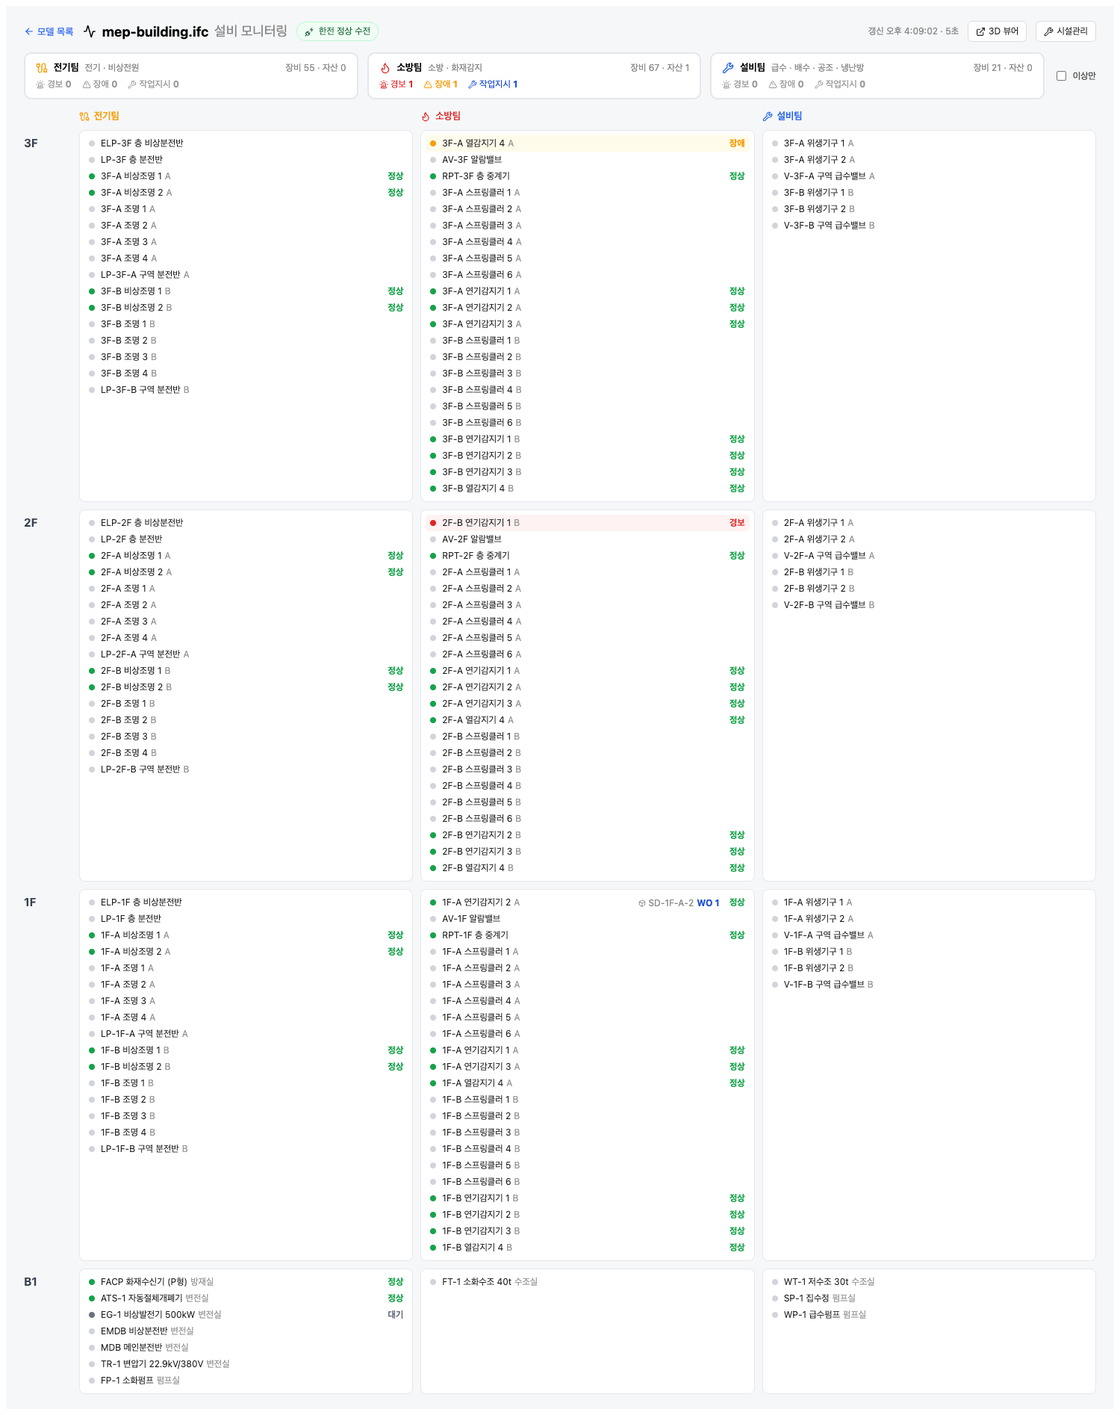
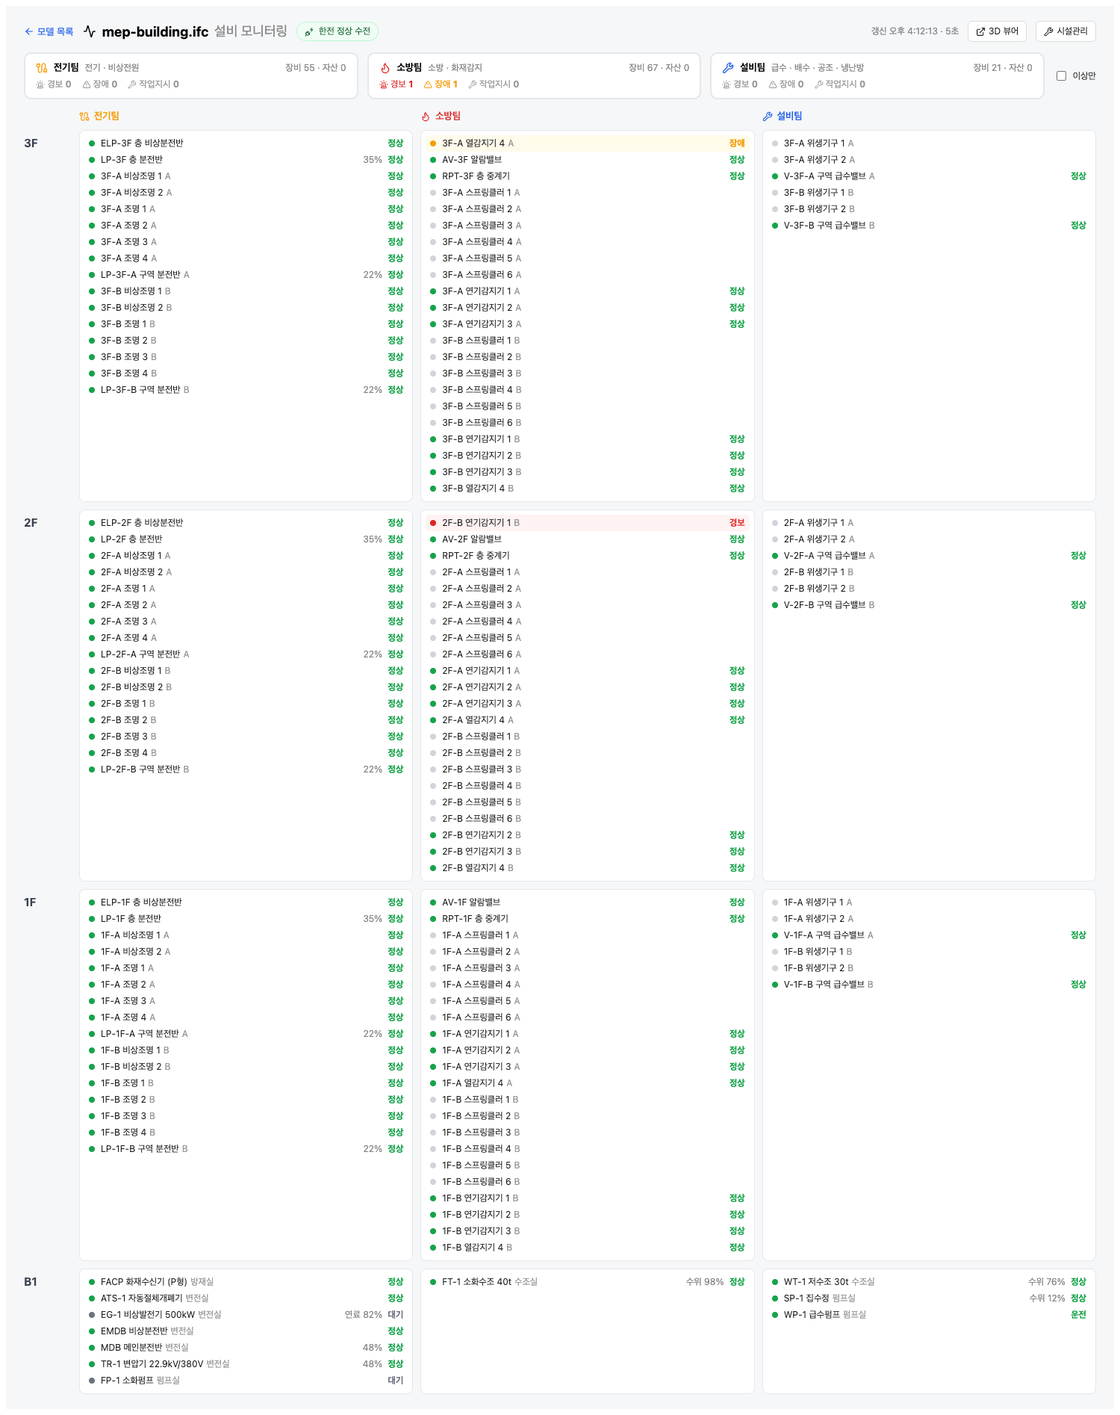
M6 모니터링 보강: 분전반·펌프·밸브·수조·변압기·조명 상태 초기값(95개), GET /power(변경 없이 전원 집합), 모니터에 무전원 회색·팀별 무전원 수·부하/수위/개폐 보조값

diff --git a/web/src/MonitorPage.tsx b/web/src/MonitorPage.tsx
@@ -12,21 +12,24 @@ const TEAMS: { key: string; name: string; icon: LucideIcon; color: string; syste
   { key: 'mech', name: '설비팀', icon: Wrench, color: '#2563eb', systems: ['급수', '배수', '공조', '냉난방'] },
 ]
 const STATUS: Record<string, { label: string; color: string }> = { NORMAL: { label: '정상', color: '#16a34a' }, RUNNING: { label: '운전', color: '#16a34a' }, STANDBY: { label: '대기', color: '#6b7280' }, TRANSFERRED: { label: '절체', color: '#ea580c' }, ALARM: { label: '경보', color: '#dc2626' }, FAULT: { label: '장애', color: '#f59e0b' } }
-const rank = (r: Row) => ({ ALARM: 0, FAULT: 1, TRANSFERRED: 2 }[r.status?.Status ?? ''] ?? (r.openWorkOrders ? 3 : r.lastResult === 'DEFECT' ? 4 : 9))
+const rank = (r: Row, dead = false) => ({ ALARM: 0, FAULT: 1, TRANSFERRED: 2 }[r.status?.Status ?? ''] ?? (dead ? 2 : r.openWorkOrders ? 3 : r.lastResult === 'DEFECT' ? 4 : 9))
 
 /** #/models/{id}/monitor — 팀 × 층 격자 상태판. 5초 자동 갱신 */
 export default function MonitorPage({ modelId }: { modelId: string }) {
   const [model, setModel] = useState<Model>()
   const [rows, setRows] = useState<Row[]>([]); const [power, setPower] = useState('UNKNOWN')
   const [team, setTeam] = useState<string>(); const [onlyAbnormal, setOnlyAbnormal] = useState(false); const [tick, setTick] = useState(new Date())
-  const load = () => api(`/models/${modelId}/monitor`).then(d => { setRows(d.rows); setPower(d.power); setTick(new Date()) })
+  const [unpowered, setUnpowered] = useState<Set<string>>(new Set())
+  const load = () => Promise.all([api(`/models/${modelId}/monitor`), api(`/models/${modelId}/power`).catch(() => ({ unpowered: [] }))])
+    .then(([d, pw]) => { setRows(d.rows); setPower(d.power); setUnpowered(new Set(pw.unpowered)); setTick(new Date()) })
   useEffect(() => { api(`/models/${modelId}`).then(setModel); load(); const t = setInterval(load, 5000); return () => clearInterval(t) }, [modelId])
 
   const teamOf = (r: Row) => TEAMS.find(t => r.systems.some(s => t.systems.includes(s)))
   const storeys = useMemo(() => [...new Map(rows.filter(r => r.storey).map(r => [r.storey!, r.elevation ?? 0])).entries()].sort((a, b) => b[1] - a[1]).map(e => e[0]), [rows])
   const visibleTeams = TEAMS.filter(t => !team || t.key === team)
-  const cell = (st: string, t: typeof TEAMS[number]) => rows.filter(r => r.storey === st && teamOf(r)?.key === t.key && (!onlyAbnormal || rank(r) < 9)).sort((a, b) => rank(a) - rank(b) || (a.zone ?? '').localeCompare(b.zone ?? '') || a.name.localeCompare(b.name))
-  const kpi = (t: typeof TEAMS[number]) => { const rs = rows.filter(r => teamOf(r)?.key === t.key); return { total: rs.length, alarm: rs.filter(r => r.status?.Status === 'ALARM').length, fault: rs.filter(r => r.status?.Status === 'FAULT').length, wo: rs.reduce((n, r) => n + (r.openWorkOrders ?? 0), 0), assets: rs.filter(r => r.assetId).length } }
+  const dead = (r: Row) => unpowered.has(r.globalId)
+  const cell = (st: string, t: typeof TEAMS[number]) => rows.filter(r => r.storey === st && teamOf(r)?.key === t.key && (!onlyAbnormal || rank(r, dead(r)) < 9)).sort((a, b) => rank(a, dead(a)) - rank(b, dead(b)) || (a.zone ?? '').localeCompare(b.zone ?? '') || a.name.localeCompare(b.name))
+  const kpi = (t: typeof TEAMS[number]) => { const rs = rows.filter(r => teamOf(r)?.key === t.key); return { total: rs.length, alarm: rs.filter(r => r.status?.Status === 'ALARM').length, fault: rs.filter(r => r.status?.Status === 'FAULT').length, wo: rs.reduce((n, r) => n + (r.openWorkOrders ?? 0), 0), assets: rs.filter(r => r.assetId).length, dead: rs.filter(r => unpowered.has(r.globalId)).length } }
 
   return (
     <main style={{ fontFamily: 'system-ui', fontSize: 13, padding: '20px 24px', minHeight: '100vh', background: '#f6f7f9' }}>
@@ -43,7 +46,7 @@ export default function MonitorPage({ modelId }: { modelId: string }) {
         {TEAMS.map(t => { const k = kpi(t), Icon = t.icon, active = team === t.key; return (
           <div key={t.key} onClick={() => setTeam(active ? undefined : t.key)} style={{ flex: 1, background: '#fff', border: '2px solid ' + (active ? t.color : '#e5e7eb'), borderRadius: 10, padding: '10px 14px', cursor: 'pointer' }}>
             <div style={{ display: 'flex', alignItems: 'center', gap: 8 }}><Icon size={16} style={{ color: t.color }} /><b>{t.name}</b><span style={{ color: '#888', fontSize: 12 }}>{t.systems.join(' · ')}</span>
-              <span style={{ marginLeft: 'auto', color: '#888', fontSize: 12 }}>장비 {k.total} · 자산 {k.assets}</span></div>
+              <span style={{ marginLeft: 'auto', color: '#888', fontSize: 12 }}>장비 {k.total} · 자산 {k.assets}{k.dead ? <b style={{ color: '#374151', marginLeft: 6 }}>무전원 {k.dead}</b> : ''}</span></div>
             <div style={{ display: 'flex', gap: 14, marginTop: 6, fontSize: 12 }}>
               <span style={{ color: k.alarm ? '#dc2626' : '#999' }}><Siren size={12} style={{ verticalAlign: -2 }} /> 경보 <b>{k.alarm}</b></span>
               <span style={{ color: k.fault ? '#f59e0b' : '#999' }}><AlertTriangle size={12} style={{ verticalAlign: -2 }} /> 장애 <b>{k.fault}</b></span>
@@ -59,7 +62,7 @@ export default function MonitorPage({ modelId }: { modelId: string }) {
           <div key={st} style={{ fontWeight: 700, fontSize: 15, paddingTop: 8, color: '#374151' }}>{st}</div>
           {visibleTeams.map(t => { const rs = cell(st, t); return (
             <div key={st + t.key} style={{ background: '#fff', border: '1px solid #e5e7eb', borderRadius: 8, padding: 6, minHeight: 44 }}>
-              {rs.map(r => <RowView key={r.globalId} r={r} modelId={modelId} />)}
+              {rs.map(r => <RowView key={r.globalId} r={r} modelId={modelId} dead={dead(r)} />)}
               {!rs.length && <div style={{ color: '#bbb', fontSize: 12, padding: 4 }}>{onlyAbnormal ? '이상 없음' : '—'}</div>}
             </div>) })}
         </>)}
@@ -68,17 +71,19 @@ export default function MonitorPage({ modelId }: { modelId: string }) {
   )
 }
 
-function RowView({ r, modelId }: { r: Row; modelId: string }) {
-  const s = r.status?.Status, st = s ? STATUS[s] : undefined
+function RowView({ r, modelId, dead }: { r: Row; modelId: string; dead?: boolean }) {
+  const s = r.status?.Status, st = dead ? { label: '무전원', color: '#374151' } : s ? STATUS[s] : undefined
   const abnormal = s === 'ALARM' || s === 'FAULT'
   return (
     <a href={`#/models/${modelId}?sel=${encodeURIComponent(r.globalId)}&fm=1`} title={`${r.ifcClass} · ${r.zone ?? r.storey}`}
-       style={{ display: 'grid', gridTemplateColumns: '10px 1fr auto auto', alignItems: 'center', gap: 6, padding: '3px 6px', borderRadius: 5, textDecoration: 'none', color: '#222', fontSize: 12, background: abnormal ? (s === 'ALARM' ? '#fef2f2' : '#fffbeb') : 'transparent' }}>
+       style={{ display: 'grid', gridTemplateColumns: '10px 1fr auto auto', alignItems: 'center', gap: 6, padding: '3px 6px', borderRadius: 5, textDecoration: 'none', color: '#222', fontSize: 12, background: abnormal ? (s === 'ALARM' ? '#fef2f2' : '#fffbeb') : dead ? '#f3f4f6' : 'transparent', opacity: dead ? 0.7 : 1 }}>
       <span style={{ width: 8, height: 8, borderRadius: '50%', background: st?.color ?? '#d1d5db' }} />
       <span style={{ overflow: 'hidden', textOverflow: 'ellipsis', whiteSpace: 'nowrap' }}>{r.name}{r.zone && <span style={{ color: '#999', marginLeft: 4 }}>{r.zone.split('-').pop()}</span>}</span>
       <span style={{ color: '#888' }}>{r.assetTag ? <><Box size={10} style={{ verticalAlign: -1 }} /> {r.assetTag}</> : ''}{r.openWorkOrders ? <b style={{ color: '#1d4ed8', marginLeft: 4 }}>WO {r.openWorkOrders}</b> : ''}{r.lastResult === 'DEFECT' && !r.openWorkOrders ? <b style={{ color: '#b91c1c', marginLeft: 4 }}>결함</b> : ''}</span>
-      <b style={{ color: st?.color ?? '#bbb', minWidth: 28, textAlign: 'right' }}>{st?.label ?? ''}</b>
+      <b style={{ color: st?.color ?? '#bbb', minWidth: 28, textAlign: 'right', whiteSpace: 'nowrap' }}>{extra(r)}{st?.label ?? ''}</b>
     </a>
   )
 }
+/** 상태 옆 보조값: 부하·수위·개폐·연료 */
+const extra = (r: Row) => { const s = r.status ?? {}; const v = s.LoadPercent != null ? `${s.LoadPercent}% ` : s.LevelPercent != null ? `수위 ${s.LevelPercent}% ` : s.FuelLevel != null ? `연료 ${s.FuelLevel}% ` : s.Open === false ? '닫힘 ' : s.Breaker === 'OPEN' ? '트립 ' : ''; return <span style={{ color: '#888', fontWeight: 400, marginRight: 4 }}>{v}</span> }
 const btn = { display: 'inline-flex', alignItems: 'center', gap: 4, padding: '5px 10px', border: '1px solid #ddd', borderRadius: 6, background: '#fff', textDecoration: 'none', color: '#222', fontSize: 12 }

diff --git a/samples/gen/gen_mep.py b/samples/gen/gen_mep.py
@@ -104,25 +104,25 @@ make("IfcSlab", "옥상 바닥", [box(0, 0, 10.5 - 0.2, W, D, 0.2)], storeys["3F
 
 # ---------- 지하 원천 설비 ----------
 b1 = storeys["B1"]; zb = FLOORS[0][1]
-TR = make("IfcTransformer", "TR-1 변압기 22.9kV/380V", [box(1, 4, zb, 2, 3, 2.2)], spaces["B1-변전실"], ST["el"], {"Pset_TransformerTypeCommon": {"PrimaryVoltage": 22900.0, "SecondaryVoltage": 380.0}}, "VOLTAGE")
-MDB = make("IfcElectricDistributionBoard", "MDB 메인분전반", [box(4, 4.5, zb, 0.8, 2, 2.0)], spaces["B1-변전실"], ST["el"], {"Pset_ElectricalDeviceCommon": {"RatedVoltage": 380.0, "RatedCurrent": 1600.0}}, "SWITCHBOARD")
+TR = make("IfcTransformer", "TR-1 변압기 22.9kV/380V", [box(1, 4, zb, 2, 3, 2.2)], spaces["B1-변전실"], ST["el"], {"Pset_TransformerTypeCommon": {"PrimaryVoltage": 22900.0, "SecondaryVoltage": 380.0}, "Pset_BimStatus": {"Status": "NORMAL", "LoadPercent": 48.0, "OilTemp": 52.0}}, "VOLTAGE")
+MDB = make("IfcElectricDistributionBoard", "MDB 메인분전반", [box(4, 4.5, zb, 0.8, 2, 2.0)], spaces["B1-변전실"], ST["el"], {"Pset_ElectricalDeviceCommon": {"RatedVoltage": 380.0, "RatedCurrent": 1600.0}, "Pset_BimStatus": {"Status": "NORMAL", "Breaker": "CLOSED", "LoadPercent": 48.0}}, "SWITCHBOARD")
 link(TR, MDB, "전기")
-WT = make("IfcTank", "WT-1 저수조 30t", [box(14, 1, zb, 4, 4, 2.5)], spaces["B1-수조실"], ST["tank"], {"Pset_TankTypeCommon": {"NominalCapacity": 30.0}}, "STORAGE")
-WP = make("IfcPump", "WP-1 급수펌프", [box(7, 1.5, zb, 1, 1, 1.2)], spaces["B1-펌프실"], ST["ws"], {"Pset_PumpTypeCommon": {"NominalCapacity": 0.0083}}, "ENDSUCTION")
+WT = make("IfcTank", "WT-1 저수조 30t", [box(14, 1, zb, 4, 4, 2.5)], spaces["B1-수조실"], ST["tank"], {"Pset_TankTypeCommon": {"NominalCapacity": 30.0}, "Pset_BimStatus": {"Status": "NORMAL", "LevelPercent": 76.0}}, "STORAGE")
+WP = make("IfcPump", "WP-1 급수펌프", [box(7, 1.5, zb, 1, 1, 1.2)], spaces["B1-펌프실"], ST["ws"], {"Pset_PumpTypeCommon": {"NominalCapacity": 0.0083}, "Pset_BimStatus": {"Status": "RUNNING", "RunHours": 4120.0}}, "ENDSUCTION")
 link(WT, WP, "급수")
-FT = make("IfcTank", "FT-1 소화수조 40t", [box(19, 1, zb, 4, 4, 2.5)], spaces["B1-수조실"], ST["tank"], {"Pset_TankTypeCommon": {"NominalCapacity": 40.0}}, "STORAGE")
-FP = make("IfcPump", "FP-1 소화펌프", [box(9, 1.5, zb, 1, 1, 1.4)], spaces["B1-펌프실"], ST["fp"], None, "ENDSUCTION")
+FT = make("IfcTank", "FT-1 소화수조 40t", [box(19, 1, zb, 4, 4, 2.5)], spaces["B1-수조실"], ST["tank"], {"Pset_TankTypeCommon": {"NominalCapacity": 40.0}, "Pset_BimStatus": {"Status": "NORMAL", "LevelPercent": 98.0}}, "STORAGE")
+FP = make("IfcPump", "FP-1 소화펌프", [box(9, 1.5, zb, 1, 1, 1.4)], spaces["B1-펌프실"], ST["fp"], {"Pset_BimStatus": {"Status": "STANDBY", "LastTest": "2026-08-10"}}, "ENDSUCTION")
 link(FT, FP, "소방")
 # ---------- 비상전원: 발전기 → ATS → 비상분전반 ----------
 GEN = make("IfcElectricGenerator", "EG-1 비상발전기 500kW", [box(1, 0.5, zb, 3, 1.6, 1.8), box(1.2, 2.3, zb, 1.0, 1.0, 1.0)], spaces["B1-변전실"], ST["gen"],
            {"Pset_ElectricGeneratorTypeCommon": {"MaximumPowerOutput": 500000.0}, "Pset_BimStatus": {"Status": "STANDBY", "FuelLevel": 82.0, "LastTest": "2026-08-01"}}, "CHP")
 ATS = make("IfcSwitchingDevice", "ATS-1 자동절체개폐기", [box(4, 2.2, zb, 0.6, 0.8, 1.6)], spaces["B1-변전실"], ST["em"], {"Pset_BimStatus": {"Status": "NORMAL", "Source": "UTILITY"}}, "TRANSFERSWITCH")
-EMDB = make("IfcElectricDistributionBoard", "EMDB 비상분전반", [box(4, 7.0, zb, 0.8, 0.8, 2.0)], spaces["B1-변전실"], ST["em"], {"Pset_ElectricalDeviceCommon": {"RatedVoltage": 380.0, "RatedCurrent": 400.0}}, "SWITCHBOARD")
+EMDB = make("IfcElectricDistributionBoard", "EMDB 비상분전반", [box(4, 7.0, zb, 0.8, 0.8, 2.0)], spaces["B1-변전실"], ST["em"], {"Pset_ElectricalDeviceCommon": {"RatedVoltage": 380.0, "RatedCurrent": 400.0}, "Pset_BimStatus": {"Status": "NORMAL", "Breaker": "CLOSED"}}, "SWITCHBOARD")
 link(GEN, ATS, "비상전원"); link(MDB, ATS, "비상전원"); link(ATS, EMDB, "비상전원")
 # ---------- 화재감지: 수신기(방재실) ----------
 FACP = make("IfcUnitaryControlElement", "FACP 화재수신기 (P형)", [box(1, 9.5, zb + 0.8, 0.7, 0.3, 1.0)], spaces["B1-방재실"], ST["fa"], {"Pset_BimStatus": {"Status": "NORMAL", "ActiveAlarms": 1, "Faults": 1}}, "ALARMPANEL")
 link(EMDB, FACP, "비상전원"); link(EMDB, FP, "비상전원")   # 소화펌프는 비상전원
-SP = make("IfcTank", "SP-1 집수정", [box(7, 8, zb - 0.2, 2, 2, 1.0)], spaces["B1-펌프실"], ST["ww"], None, "BASIN")
+SP = make("IfcTank", "SP-1 집수정", [box(7, 8, zb - 0.2, 2, 2, 1.0)], spaces["B1-펌프실"], ST["ww"], {"Pset_BimStatus": {"Status": "NORMAL", "LevelPercent": 12.0}}, "BASIN")
 
 # 지하 수평 배관: 수조 → 펌프 → 샤프트, 펌프실 → 샤프트
 ex, ey = EPS[0] + EPS[2] / 2, EPS[1] + EPS[3] / 2   # EPS 중심
@@ -147,13 +147,13 @@ riser_ww = make("IfcPipeSegment", "배수 입상관", [pipe([(px, py - 0.3, top)
 # ---------- 층별 ----------
 for name, z in FLOORS[1:]:
     st = storeys[name]
-    LP = make("IfcElectricDistributionBoard", f"LP-{name} 층 분전반", [box(EPS[0] + 0.2, EPS[1] + 0.3, z + 0.8, 0.6, 0.25, 1.0)], st, ST["el"], {"Pset_ElectricalDeviceCommon": {"RatedVoltage": 380.0, "RatedCurrent": 250.0}}, "DISTRIBUTIONBOARD")
+    LP = make("IfcElectricDistributionBoard", f"LP-{name} 층 분전반", [box(EPS[0] + 0.2, EPS[1] + 0.3, z + 0.8, 0.6, 0.25, 1.0)], st, ST["el"], {"Pset_ElectricalDeviceCommon": {"RatedVoltage": 380.0, "RatedCurrent": 250.0}, "Pset_BimStatus": {"Status": "NORMAL", "Breaker": "CLOSED", "LoadPercent": 35.0}}, "DISTRIBUTIONBOARD")
     link(riser_el, LP, "전기")
-    ELP = make("IfcElectricDistributionBoard", f"ELP-{name} 층 비상분전반", [box(EPS[0] + 0.2, EPS[1] + 1.2, z + 0.8, 0.4, 0.25, 0.6)], st, ST["em"], {"Pset_ElectricalDeviceCommon": {"RatedVoltage": 220.0, "RatedCurrent": 63.0}}, "DISTRIBUTIONBOARD")
+    ELP = make("IfcElectricDistributionBoard", f"ELP-{name} 층 비상분전반", [box(EPS[0] + 0.2, EPS[1] + 1.2, z + 0.8, 0.4, 0.25, 0.6)], st, ST["em"], {"Pset_ElectricalDeviceCommon": {"RatedVoltage": 220.0, "RatedCurrent": 63.0}, "Pset_BimStatus": {"Status": "NORMAL", "Breaker": "CLOSED"}}, "DISTRIBUTIONBOARD")
     link(riser_em, ELP, "비상전원")
     RPT = make("IfcUnitaryControlElement", f"RPT-{name} 층 중계기", [box(EPS[0] + 0.7, EPS[1] + 1.2, z + 1.6, 0.3, 0.15, 0.3)], st, ST["fa"], {"Pset_BimStatus": {"Status": "NORMAL"}}, "ALARMPANEL")
     link(RPT, riser_fa, "화재감지")
-    AV = make("IfcValve", f"AV-{name} 알람밸브", [box(px + 0.15, py + 0.5, z + 1.0, 0.3, 0.3, 0.3)], st, ST["fp"], None, "ISOLATION")
+    AV = make("IfcValve", f"AV-{name} 알람밸브", [box(px + 0.15, py + 0.5, z + 1.0, 0.3, 0.3, 0.3)], st, ST["fp"], {"Pset_BimStatus": {"Status": "NORMAL", "Open": True, "Pressure": 0.55}}, "ISOLATION")
     link(riser_fp, AV, "소방")
     WSB = make("IfcPipeSegment", f"{name} 급수 분기관", [pipe([(px - 0.3, py, z + 3.0), (px - 0.3, 3.0, z + 3.0), (2, 3.0, z + 3.0)], 0.04), pipe([(px - 0.3, 3.0, z + 3.0), (W - 2, 3.0, z + 3.0)], 0.04)], st, ST["ws"], None, "RIGIDSEGMENT")
     link(riser_ws, WSB, "급수")
@@ -167,10 +167,10 @@ for name, z in FLOORS[1:]:
         tx0, tx1 = (ex - 0.15, x0 + 1.0) if zname == "A" else (ex + 0.15, x1 - 1.0)
         tray = make("IfcCableCarrierSegment", f"{name}-{zname} 트레이", [box(min(tx0, tx1), ey - 0.1, z + 3.05, abs(tx1 - tx0), 0.2, 0.1)], sp, ST["tray"], None, "CABLETRAYSEGMENT")
         link(LP, tray, "전기")
-        ZP = make("IfcElectricDistributionBoard", f"LP-{name}-{zname} 구역 분전반", [box(x0 + 0.3 if zname == "A" else x1 - 0.55, ey - 0.3, z + 1.2, 0.25, 0.6, 0.8)], sp, ST["el"], {"Pset_ElectricalDeviceCommon": {"RatedVoltage": 220.0, "RatedCurrent": 100.0}}, "DISTRIBUTIONBOARD")
+        ZP = make("IfcElectricDistributionBoard", f"LP-{name}-{zname} 구역 분전반", [box(x0 + 0.3 if zname == "A" else x1 - 0.55, ey - 0.3, z + 1.2, 0.25, 0.6, 0.8)], sp, ST["el"], {"Pset_ElectricalDeviceCommon": {"RatedVoltage": 220.0, "RatedCurrent": 100.0}, "Pset_BimStatus": {"Status": "NORMAL", "Breaker": "CLOSED", "LoadPercent": 22.0}}, "DISTRIBUTIONBOARD")
         link(tray, ZP, "전기")
         for i, (lx, ly) in enumerate([(x0 + 3, 3), (x0 + 3, 9), (x0 + 7, 3), (x0 + 7, 9)] if zname == "A" else [(x0 + 2.5, 3), (x0 + 2.5, 9), (x0 + 7, 3), (x0 + 7, 9)]):
-            L = make("IfcLightFixture", f"{name}-{zname} 조명 {i + 1}", [box(lx - 0.6, ly - 0.15, z + H - 0.35, 1.2, 0.3, 0.08)], sp, ST["light"], None, "POINTSOURCE")
+            L = make("IfcLightFixture", f"{name}-{zname} 조명 {i + 1}", [box(lx - 0.6, ly - 0.15, z + H - 0.35, 1.2, 0.3, 0.08)], sp, ST["light"], {"Pset_BimStatus": {"Status": "NORMAL", "On": True}}, "POINTSOURCE")
             link(ZP, L, "전기")
         # 비상전원: 층 비상분전반 → 비상조명(피난유도등) 2개
         for i, (lx, ly) in enumerate([(x0 + 1.0, 6.0), (x1 - 1.0, 6.0)] if zname == "A" else [(x0 + 1.0, 6.0), (x1 - 1.0, 6.0)]):
@@ -185,7 +185,7 @@ for name, z in FLOORS[1:]:
             link(DET, RPT, "화재감지")
         # 급수: 분기관 → 구역 밸브 → 위생기구 2개, 배수: 위생기구 → 횡주관
         vx = x0 + 2.5 if zname == "A" else x1 - 2.5
-        VL = make("IfcValve", f"V-{name}-{zname} 구역 급수밸브", [box(vx - 0.15, 2.85, z + 2.85, 0.3, 0.3, 0.3)], sp, ST["ws"], None, "ISOLATION")
+        VL = make("IfcValve", f"V-{name}-{zname} 구역 급수밸브", [box(vx - 0.15, 2.85, z + 2.85, 0.3, 0.3, 0.3)], sp, ST["ws"], {"Pset_BimStatus": {"Status": "NORMAL", "Open": True}}, "ISOLATION")
         link(WSB, VL, "급수")
         for i in range(2):
             fx = vx + (i * 1.5 if zname == "A" else -i * 1.5)

diff --git a/api/src/main/java/com/bim/api/StatusController.java b/api/src/main/java/com/bim/api/StatusController.java
@@ -81,6 +81,16 @@ class StatusController {
 		return Map.of("source", source, "powered", powered, "unpowered", unpowered);
 	}
 
+	/** 현재 전원 상태 조회 (변경 없음): 모니터 페이지가 무전원 요소를 회색 처리하는 데 쓴다 */
+	@GetMapping("/power")
+	Map<String, Object> powerNow(@PathVariable UUID id) {
+		String source = db.sql("SELECT properties->'Pset_BimStatus'->>'Source' FROM element WHERE model_id = :id AND ifc_class = 'IfcSwitchingDevice' LIMIT 1").param("id", id).query(String.class).optional().orElse("UTILITY");
+		boolean gen = "GENERATOR".equals(source);
+		List<String> normal = downstream(id, "MDB%"), emergency = downstream(id, "EMDB%");
+		return Map.of("source", source, "powered", gen ? emergency : java.util.stream.Stream.concat(normal.stream(), emergency.stream()).distinct().toList(),
+		              "unpowered", gen ? normal.stream().filter(g -> !emergency.contains(g)).toList() : List.of());
+	}
+
 	private void set(UUID id, String cls, Map<String, Object> patch) {
 		db.sql("UPDATE element SET properties = jsonb_set(properties, '{Pset_BimStatus}', coalesce(properties->'Pset_BimStatus', '{}'::jsonb) || :p::jsonb) WHERE model_id = :id AND ifc_class = :c")
 			.param("id", id).param("c", cls).param("p", JSON.writeValueAsString(patch)).update();

diff --git a/docs/study/mep-systems.md b/docs/study/mep-systems.md
@@ -23,7 +23,7 @@
 | 비상전원 | ELECTRICAL | 비상발전기 → ATS(한전/발전 절체, MDB 도 입력) → 비상분전반 EMDB → 입상 → 층 비상분전반 → 비상조명 · 소화펌프 · 화재수신기 | IfcElectricGenerator, IfcSwitchingDevice(TRANSFERSWITCH), IfcLightFixture(EMERGENCY) |
 | 화재감지 | SIGNAL | **감지기 → 층 중계기 → 간선 → 화재수신기(방재실)** — 신호 방향이라 수신기가 "하류" | IfcSensor(SMOKESENSOR/HEATSENSOR), IfcUnitaryControlElement(ALARMPANEL), IfcCableSegment |
 
-**상태**: 감지기·발전기·ATS·비상조명·수신기에 `Pset_BimStatus`(Status NORMAL/ALARM/FAULT/STANDBY, AlarmAt, LastTest, FuelLevel, BatteryLevel, Source UTILITY/GENERATOR). 표준 Pset 에 "현재 상태" 자리는 없어서(IFC 는 설계 정보) 프로젝트 Pset 으로 뒀다. 실제 운영에선 BMS/수신기 연동값이 여기로 들어오고, 뷰어 "속성별 색상 → Pset_BimStatus.Status" 가 곧 상태판(ALARM 빨강·FAULT 주황·NORMAL 초록). 예시 데이터: 2F-B 연기감지기 1 = ALARM, 3F-A 열감지기 = FAULT.
+**상태**: 감지기·발전기·ATS·비상조명·수신기·분전반(Breaker, LoadPercent)·펌프(RUNNING/STANDBY, RunHours)·밸브(Open, Pressure)·수조(LevelPercent)·변압기(LoadPercent, OilTemp)·조명(On) 에 `Pset_BimStatus`(Status NORMAL/ALARM/FAULT/STANDBY, AlarmAt, LastTest, FuelLevel, BatteryLevel, Source UTILITY/GENERATOR). 표준 Pset 에 "현재 상태" 자리는 없어서(IFC 는 설계 정보) 프로젝트 Pset 으로 뒀다. 실제 운영에선 BMS/수신기 연동값이 여기로 들어오고, 뷰어 "속성별 색상 → Pset_BimStatus.Status" 가 곧 상태판(ALARM 빨강·FAULT 주황·NORMAL 초록). 예시 데이터: 2F-B 연기감지기 1 = ALARM, 3F-A 열감지기 = FAULT.
 
 ## IFC 에서 계통과 흐름을 담는 자리
 

diff --git a/README.md b/README.md
@@ -69,6 +69,7 @@ curl -X POST localhost:8080/api/models/<id>/retry                               
 ![M6 상태판](docs/images/m6-status.png)
 ![M6 정전 시나리오](docs/images/m6-blackout.png)
 ![M6 모니터링](docs/images/m6-monitor.png)
+![M6 모니터링 정전](docs/images/m6-monitor-blackout.png)
 
 `samples/mep-building.ifc` — `samples/gen/gen_mep.py` 로 만든 가상 업무동(지하 변전실·펌프실·수조 + 3개 층, 층별 A/B 구역). 전기·급수·배수·소방·비상전원·화재감지 6계통을 IfcDistributionSystem 과 흐름 연결로 넣었고, 감지기·발전기엔 상태(`Pset_BimStatus`)가 있다. 뷰어 "계통" 탭에서 계통별 색, 요소 선택 → **상류(원천까지) / 하류(말단까지)** 추적, **상태판**(경보/장애 목록, API 로 상태 갱신 → 수신기 집계·작업지시 자동), **정전 시나리오**(발전기 절체 시 전원 있음/없음을 흐름 그래프로 계산). `#/models/{id}/monitor` **모니터링**: 팀(전기·소방·설비) × 층 격자에 장비 상태·자산·작업지시, 5초 갱신.
 

diff --git a/docs/01-architecture.md b/docs/01-architecture.md
@@ -119,7 +119,7 @@ src/
 | GET | `/api/models/{id}/elements/{globalId}/route?dir=up\|down` | 흐름 추적 (재귀 CTE, 원천까지 / 말단까지) |
 | GET/PATCH | `/api/models/{id}/status` · `/elements/{globalId}/status` | 런타임 상태(Pset_BimStatus jsonb 병합, 수신기 집계, 자산이면 작업지시 자동) |
 | GET | `/api/models/{id}/monitor?segments=` | 모니터링: 계통 장비 × 층/구역 × 상태 × 자산 × 작업지시 (배관·트레이 제외) |
-| POST | `/api/models/{id}/power?source=UTILITY\|GENERATOR` | 정전 시나리오: ATS/발전기 상태 + 전원 있음/없음 집합 |
+| GET/POST | `/api/models/{id}/power[?source=UTILITY\|GENERATOR]` | 전원 상태 조회 / 정전 시나리오(ATS·발전기 상태 변경) — 전원 있음/없음 집합 |
 
 ## glb ↔ 요소 매핑
 
